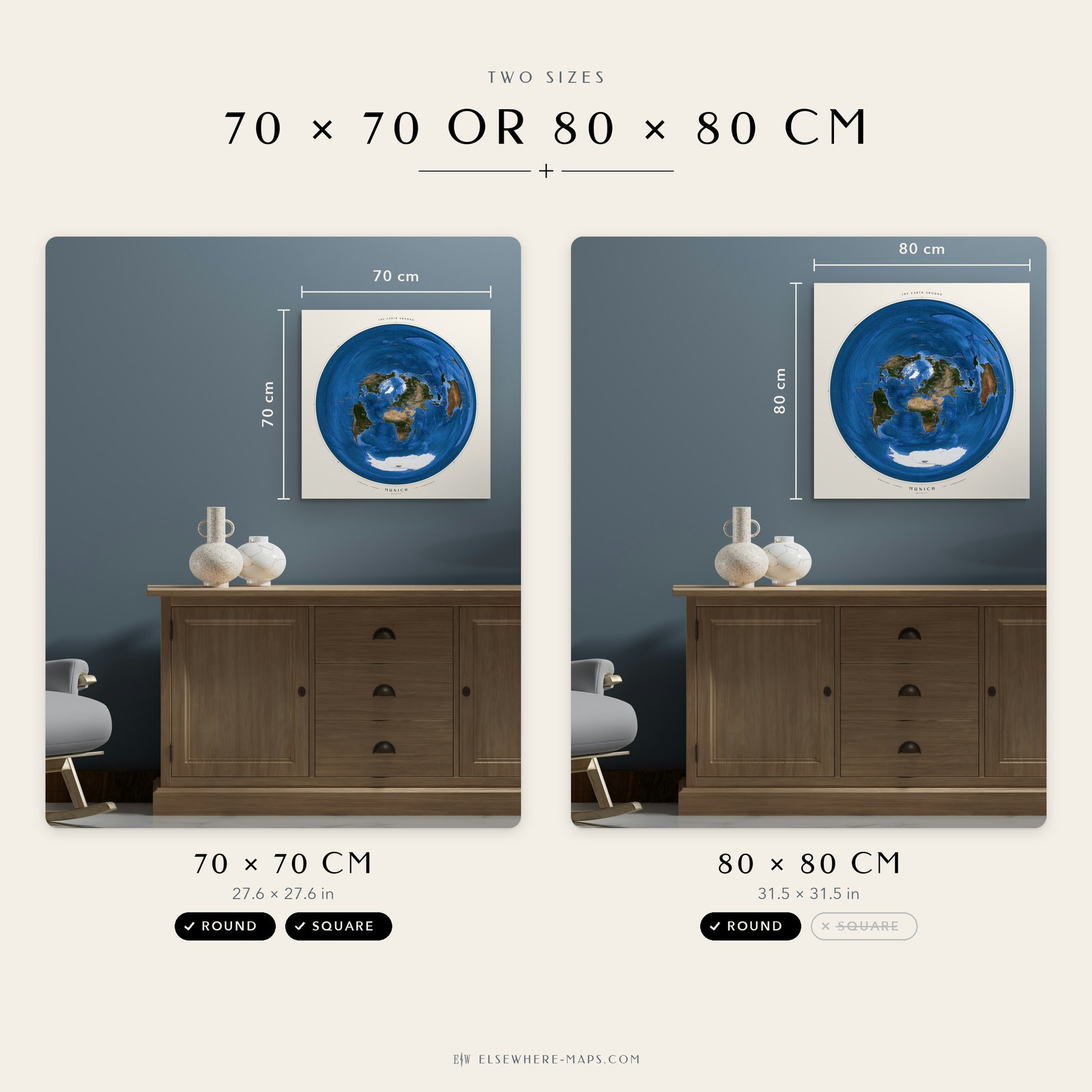
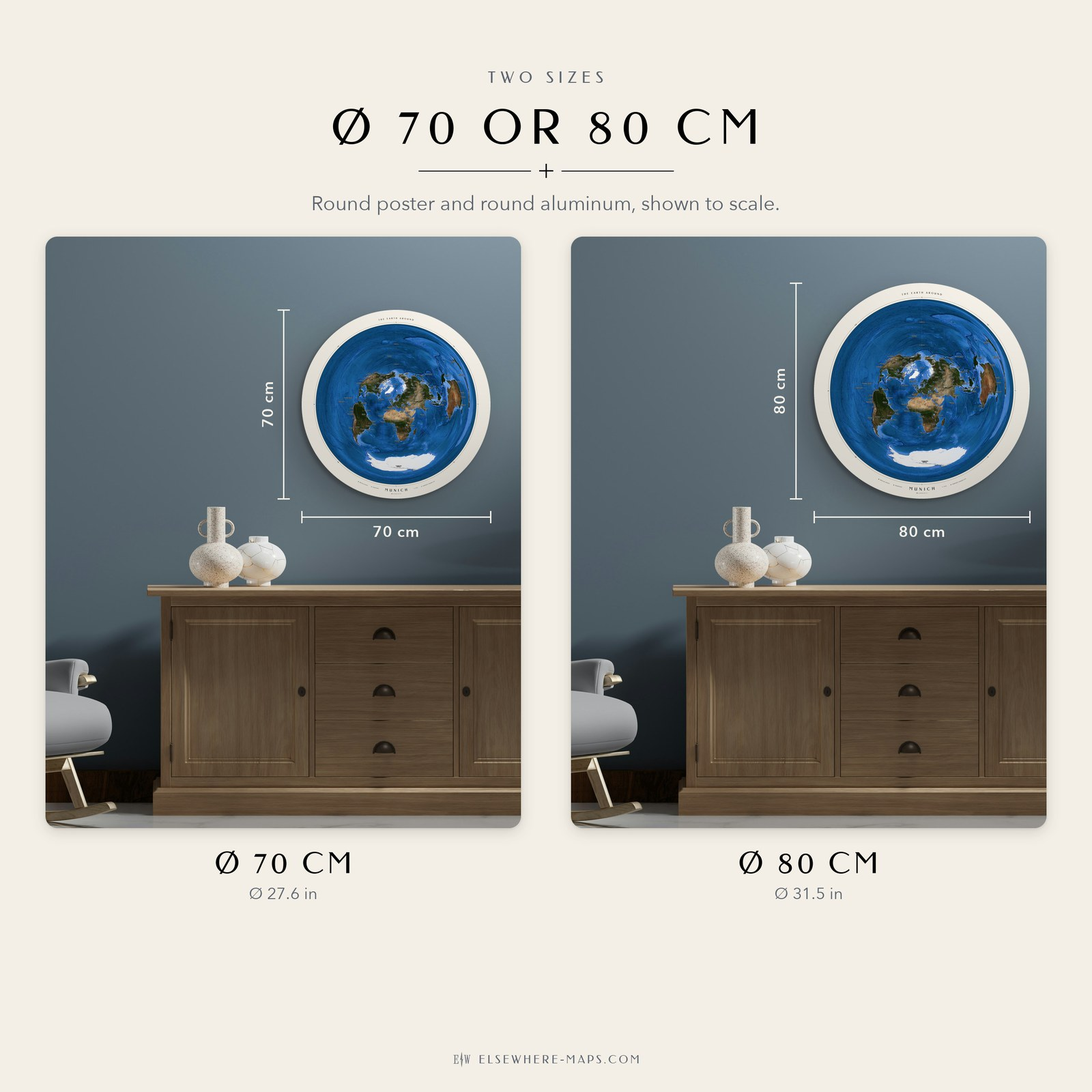
Add files via upload

diff --git a/i18n.js b/i18n.js
@@ -11,9 +11,6 @@ window.UI_STRINGS = {
     earth_lead: "The whole world, drawn around one single point: yours.",
     earth_p1: "The map uses the azimuthal equidistant projection. Every straight line from the center is the shortest route around the globe, and every distance from the center is true. Rings mark 1,000 to 15,000 kilometers or miles.",
     earth_p2: "You choose the center (any city or any point on Earth), the title, one of 14 languages, kilometers or miles, extra cities and up to 8 special places, such as where you met or were born.",
-    earth_f1: "Round poster or round aluminum, 70 or 80 cm (28″ or 32″ in the US)",
-    earth_f2: "Square poster, unframed or in a black wooden frame, 70 × 70 cm",
-    earth_f4: "Also as a digital download, with a gift card to print right away",
     dig_kicker: "Digital download", dig_h: "A last-minute gift",
     dig_lead: "Your map as print-ready files, with a gift card you can print today.",
     dig_p1: "Right after your order on Etsy you can download a printable gift card. Write your names on it and give it away. Your map follows within a few days as a download link, as soon as you have approved the preview.",
@@ -21,8 +18,27 @@ window.UI_STRINGS = {
     dig_alt: "Printable gift card for The Earth Around You with a round world map and lines for the names",
     g13: "What you get", g13_alt: "Contents of the digital download: map files at 80 and 70 cm with 300 dpi, print PDFs with cut line, screen version and print guide",
     g14: "Give it today", g14_alt: "Printable gift card and the four steps from order to download",
-    earth_f3: "Designed individually for you, with a preview before printing",
     shop_etsy: "Shop on Etsy",
+    ver_kicker: "Round, square or digital",
+    ver_h: "Pick your map",
+    ver_round: "Round",
+    ver_round_sub: "70 or 80 cm (28″ or 32″ in the US)",
+    ver_poster: "Poster",
+    ver_alu: "Aluminum",
+    ver_hang: "Ready to hang",
+    ver_frame: "With or without a black wooden frame",
+    ship_eu: "Ships within the EU",
+    ship_us: "Ships within the US",
+    ship_world: "Ships worldwide",
+    ver_digital_note: "Print-ready files",
+    ver_digital_where: "Print it wherever you like",
+    ver_square: "Square",
+    ver_square_sub: "70 × 70 cm",
+    ver_digital: "Digital",
+    ver_digital_sub: "70 × 70 or 80 × 80 cm (28″ or 32″ in the US)",
+    ver_digital_item: "Digital download",
+    ver_note: "Every map is designed individually for you, with a preview before printing. The links take you to the shop on Etsy.",
+    ver_sr: "View on Etsy",
     gallery_earth: "Pictures of The Earth Around You",
     film_h: "The map in motion", film_aria: "Film: the map moves around its center, from Berlin to New York and Sydney",
     gallery_h: "A closer look",
@@ -35,7 +51,7 @@ window.UI_STRINGS = {
     g9: "Asia and the Pacific", g9_alt: "Close-up of the azimuthal equidistant map: Asia and the Pacific with city names and true distances in km", g10: "Title and legend", g10_alt: "Close-up of the round world map poster: title, legend and distance scale", g11: "14 languages, km or miles", g11_alt: "The personalized world map in 14 languages, with distances in kilometers or miles",
     g12: "The title on the frame", g12_alt: "Close-up of the round world map poster: the title The Earth Around on the frame, with the north mark",
     g5: "How your map works", g5_alt: "How the azimuthal equidistant projection works: the globe unfolded into a round map with true distances and directions, compared with the signpost in Bluff, New Zealand",
-    g6: "Two sizes", g6_alt: "World map poster sizes 70 × 70 cm and 80 × 80 cm shown to scale in the same room",
+    g6: "Two sizes", g6_alt: "Round world map in 70 cm and 80 cm diameter, shown to scale in the same room",
     g7: "Your benefits", g7_alt: "Benefits of the personalized world map print: 5-star shop, premium quality, fully personalized, one of a kind, free shipping",
     car_prev: "Previous picture", car_next: "Next picture", car_dot: "Picture",
     steps_h: "How personalization works",
@@ -88,9 +104,6 @@ window.UI_STRINGS = {
     earth_lead: "Die ganze Welt, gezeichnet um einen einzigen Punkt: deinen.",
     earth_p1: "Die Karte nutzt die mittabstandstreue Azimutalprojektion. Jede gerade Linie von der Mitte ist der kürzeste Weg um den Globus, und jede Entfernung von der Mitte stimmt. Ringe markieren 1.000 bis 15.000 Kilometer oder Meilen.",
     earth_p2: "Du wählst die Mitte (jede Stadt oder jeden Punkt der Erde), den Titel, eine von 14 Sprachen, Kilometer oder Meilen, weitere Städte und bis zu 8 besondere Orte, etwa wo ihr euch kennengelernt habt oder wo du geboren bist.",
-    earth_f1: "Rundes Poster oder rundes Aluminium, 70 oder 80 cm (in den USA 28″ oder 32″)",
-    earth_f2: "Quadratisches Poster, ohne Rahmen oder im schwarzen Holzrahmen, 70 × 70 cm",
-    earth_f4: "Auch als digitaler Download, mit einer Geschenkkarte zum sofortigen Ausdrucken",
     dig_kicker: "Digitaler Download", dig_h: "Ein Last-Minute-Geschenk",
     dig_lead: "Deine Karte als druckfertige Dateien, mit einer Geschenkkarte, die du heute noch druckst.",
     dig_p1: "Direkt nach der Bestellung auf Etsy kannst du eine Geschenkkarte zum Ausdrucken herunterladen. Namen darauf schreiben und verschenken. Die Karte folgt in wenigen Tagen als Download-Link, sobald du die Vorschau freigegeben hast.",
@@ -98,8 +111,27 @@ window.UI_STRINGS = {
     dig_alt: "Geschenkkarte zum Ausdrucken für The Earth Around You mit runder Weltkarte und Linien für die Namen",
     g13: "Das bekommst du", g13_alt: "Inhalt des digitalen Downloads: Kartendateien in 80 und 70 cm mit 300 dpi, Druck-PDFs mit Schnittlinie, Bildschirmfassung und Druckanleitung",
     g14: "Heute verschenken", g14_alt: "Geschenkkarte zum Ausdrucken und die vier Schritte von der Bestellung bis zum Download",
-    earth_f3: "Individuell für dich gestaltet, mit Vorschau vor dem Druck",
     shop_etsy: "Auf Etsy ansehen",
+    ver_kicker: "Rund, quadratisch oder digital",
+    ver_h: "Wähle deine Karte",
+    ver_round: "Rund",
+    ver_round_sub: "70 oder 80 cm (in den USA 28″ oder 32″)",
+    ver_poster: "Poster",
+    ver_alu: "Aluminium",
+    ver_hang: "Fertig zum Aufhängen",
+    ver_frame: "Mit oder ohne schwarzen Holzrahmen",
+    ship_eu: "Versand innerhalb der EU",
+    ship_us: "Versand innerhalb der USA",
+    ship_world: "Weltweiter Versand",
+    ver_digital_note: "Druckfertige Dateien",
+    ver_digital_where: "Druck sie, wo du möchtest",
+    ver_square: "Quadratisch",
+    ver_square_sub: "70 × 70 cm",
+    ver_digital: "Digital",
+    ver_digital_sub: "70 × 70 oder 80 × 80 cm (in den USA 28″ oder 32″)",
+    ver_digital_item: "Digitaler Download",
+    ver_note: "Jede Karte wird individuell für dich gestaltet, mit Vorschau vor dem Druck. Die Links führen zum Shop auf Etsy.",
+    ver_sr: "Auf Etsy ansehen",
     gallery_earth: "Bilder von The Earth Around You",
     film_h: "Die Karte in Bewegung", film_aria: "Film: die Karte dreht sich um ihren Mittelpunkt, von Berlin nach New York und Sydney",
     gallery_h: "Im Detail",
@@ -112,7 +144,7 @@ window.UI_STRINGS = {
     g9: "Asien und Pazifik", g9_alt: "Ausschnitt der azimutalen abstandstreuen Karte: Asien und Pazifik mit Städtenamen und echten Entfernungen in km", g10: "Titel und Legende", g10_alt: "Ausschnitt des runden Weltkarten-Posters: Titel, Legende und Entfernungsmaßstab", g11: "14 Sprachen, km oder Meilen", g11_alt: "Die personalisierte Weltkarte in 14 Sprachen, mit Entfernungen in Kilometern oder Meilen",
     g12: "Der Titel auf dem Rahmen", g12_alt: "Ausschnitt des runden Weltkarten-Posters: der Titel The Earth Around auf dem Rahmen, mit der Nordmarke",
     g5: "So funktioniert deine Karte", g5_alt: "So funktioniert die azimutale abstandstreue Projektion: der Globus aufgeklappt zur runden Karte mit echten Entfernungen und Richtungen, verglichen mit dem Wegweiser in Bluff, Neuseeland",
-    g6: "Zwei Größen", g6_alt: "Weltkarten-Poster in 70 × 70 cm und 80 × 80 cm maßstäblich im selben Raum",
+    g6: "Zwei Größen", g6_alt: "Runde Weltkarte mit 70 cm und 80 cm Durchmesser, maßstäblich im selben Raum",
     g7: "Deine Vorteile", g7_alt: "Vorteile der personalisierten Weltkarte: 5-Sterne-Shop, beste Qualität, ganz persönlich, ein Einzelstück, kostenloser Versand",
     car_prev: "Vorheriges Bild", car_next: "Nächstes Bild", car_dot: "Bild",
     steps_h: "So funktioniert die Personalisierung",
@@ -165,9 +197,6 @@ window.UI_STRINGS = {
     earth_lead: "Le monde entier, dessiné autour d’un seul point : le vôtre.",
     earth_p1: "La carte utilise la projection azimutale équidistante. Chaque ligne droite partant du centre est le plus court chemin autour du globe, et chaque distance depuis le centre est exacte. Des cercles marquent de 1 000 à 15 000 kilomètres ou miles.",
     earth_p2: "Vous choisissez le centre (n’importe quelle ville ou n’importe quel point du globe), le titre, l’une des 14 langues, kilomètres ou miles, des villes supplémentaires et jusqu’à 8 lieux particuliers, comme l’endroit de votre rencontre ou de votre naissance.",
-    earth_f1: "Poster rond ou aluminium rond, 70 ou 80 cm (28″ ou 32″ aux États-Unis)",
-    earth_f2: "Poster carré, sans cadre ou dans un cadre en bois noir, 70 × 70 cm",
-    earth_f4: "Aussi en téléchargement numérique, avec une carte cadeau à imprimer tout de suite",
     dig_kicker: "Téléchargement numérique", dig_h: "Un cadeau de dernière minute",
     dig_lead: "Votre carte en fichiers prêts à imprimer, avec une carte cadeau à imprimer dès aujourd’hui.",
     dig_p1: "Juste après votre commande sur Etsy, vous pouvez télécharger une carte cadeau à imprimer. Écrivez vos noms dessus et offrez-la. Votre carte suit en quelques jours sous forme de lien de téléchargement, dès que vous avez approuvé l’aperçu.",
@@ -175,8 +204,27 @@ window.UI_STRINGS = {
     dig_alt: "Carte cadeau à imprimer pour The Earth Around You avec une carte du monde ronde et des lignes pour les noms",
     g13: "Ce que vous recevez", g13_alt: "Contenu du téléchargement : fichiers de la carte en 80 et 70 cm à 300 dpi, PDF d’impression avec ligne de découpe, version écran et guide d’impression",
     g14: "À offrir aujourd’hui", g14_alt: "Carte cadeau à imprimer et les quatre étapes de la commande au téléchargement",
-    earth_f3: "Conçue individuellement pour vous, avec un aperçu avant l’impression",
     shop_etsy: "Voir sur Etsy",
+    ver_kicker: "Ronde, carrée ou numérique",
+    ver_h: "Choisissez votre carte",
+    ver_round: "Ronde",
+    ver_round_sub: "70 ou 80 cm (28″ ou 32″ aux États-Unis)",
+    ver_poster: "Poster",
+    ver_alu: "Aluminium",
+    ver_hang: "Prêt à accrocher",
+    ver_frame: "Avec ou sans cadre en bois noir",
+    ship_eu: "Livraison dans l’UE",
+    ship_us: "Livraison aux États-Unis",
+    ship_world: "Livraison dans le monde entier",
+    ver_digital_note: "Fichiers prêts à imprimer",
+    ver_digital_where: "Imprimez-la où vous voulez",
+    ver_square: "Carrée",
+    ver_square_sub: "70 × 70 cm",
+    ver_digital: "Numérique",
+    ver_digital_sub: "70 × 70 ou 80 × 80 cm (28″ ou 32″ aux États-Unis)",
+    ver_digital_item: "Téléchargement numérique",
+    ver_note: "Chaque carte est conçue individuellement pour vous, avec un aperçu avant l’impression. Les liens mènent à la boutique sur Etsy.",
+    ver_sr: "Voir sur Etsy",
     gallery_earth: "Images de The Earth Around You",
     film_h: "La carte en mouvement", film_aria: "Film : la carte se transforme autour de son centre, de Berlin à New York et Sydney",
     gallery_h: "En détail",
@@ -189,7 +237,7 @@ window.UI_STRINGS = {
     g9: "Asie et Pacifique", g9_alt: "Détail de la carte azimutale équidistante : Asie et Pacifique avec noms de villes et vraies distances en km", g10: "Titre et légende", g10_alt: "Détail du poster rond de carte du monde : titre, légende et échelle des distances", g11: "14 langues, km ou miles", g11_alt: "La carte du monde personnalisée en 14 langues, avec distances en kilomètres ou en miles",
     g12: "Le titre sur le cadre", g12_alt: "Détail du poster rond de carte du monde : le titre The Earth Around sur le cadre, avec le repère du nord",
     g5: "Comment fonctionne votre carte", g5_alt: "Comment fonctionne la projection azimutale équidistante : le globe déplié en carte ronde avec vraies distances et directions, comparé au panneau de Bluff, en Nouvelle-Zélande",
-    g6: "Deux tailles", g6_alt: "Poster carte du monde en 70 × 70 cm et 80 × 80 cm à l’échelle dans la même pièce",
+    g6: "Deux tailles", g6_alt: "Carte du monde ronde de 70 cm et 80 cm de diamètre, à l’échelle dans la même pièce",
     g7: "Vos avantages", g7_alt: "Avantages de la carte du monde personnalisée : boutique 5 étoiles, qualité supérieure, entièrement personnalisée, pièce unique, livraison gratuite",
     car_prev: "Image précédente", car_next: "Image suivante", car_dot: "Image",
     steps_h: "Comment fonctionne la personnalisation",
@@ -242,9 +290,6 @@ window.UI_STRINGS = {
     earth_lead: "Todo el mundo, dibujado alrededor de un solo punto: el tuyo.",
     earth_p1: "El mapa usa la proyección azimutal equidistante. Cada línea recta desde el centro es la ruta más corta alrededor del globo, y cada distancia desde el centro es exacta. Los anillos marcan de 1.000 a 15.000 kilómetros o millas.",
     earth_p2: "Tú eliges el centro (cualquier ciudad o cualquier punto de la Tierra), el título, uno de 14 idiomas, kilómetros o millas, más ciudades y hasta 8 lugares especiales, como donde os conocisteis o donde naciste.",
-    earth_f1: "Póster redondo o aluminio redondo, 70 u 80 cm (28″ o 32″ en EE. UU.)",
-    earth_f2: "Póster cuadrado, sin marco o con marco de madera negro, 70 × 70 cm",
-    earth_f4: "También como descarga digital, con una tarjeta regalo para imprimir al momento",
     dig_kicker: "Descarga digital", dig_h: "Un regalo de último minuto",
     dig_lead: "Tu mapa en archivos listos para imprimir, con una tarjeta regalo que puedes imprimir hoy.",
     dig_p1: "Justo después de tu pedido en Etsy puedes descargar una tarjeta regalo para imprimir. Escribe vuestros nombres y regálala. Tu mapa llega en pocos días como enlace de descarga, en cuanto apruebes la vista previa.",
@@ -252,8 +297,27 @@ window.UI_STRINGS = {
     dig_alt: "Tarjeta regalo para imprimir de The Earth Around You con un mapa del mundo redondo y líneas para los nombres",
     g13: "Lo que recibes", g13_alt: "Contenido de la descarga digital: archivos del mapa en 80 y 70 cm a 300 dpi, PDF de impresión con línea de corte, versión para pantalla y guía de impresión",
     g14: "Regálalo hoy", g14_alt: "Tarjeta regalo para imprimir y los cuatro pasos del pedido a la descarga",
-    earth_f3: "Diseñado individualmente para ti, con vista previa antes de imprimir",
     shop_etsy: "Ver en Etsy",
+    ver_kicker: "Redondo, cuadrado o digital",
+    ver_h: "Elige tu mapa",
+    ver_round: "Redondo",
+    ver_round_sub: "70 u 80 cm (28″ o 32″ en EE. UU.)",
+    ver_poster: "Póster",
+    ver_alu: "Aluminio",
+    ver_hang: "Listo para colgar",
+    ver_frame: "Con o sin marco de madera negro",
+    ship_eu: "Envío dentro de la UE",
+    ship_us: "Envío dentro de EE. UU.",
+    ship_world: "Envío a todo el mundo",
+    ver_digital_note: "Archivos listos para imprimir",
+    ver_digital_where: "Imprímelo donde quieras",
+    ver_square: "Cuadrado",
+    ver_square_sub: "70 × 70 cm",
+    ver_digital: "Digital",
+    ver_digital_sub: "70 × 70 u 80 × 80 cm (28″ o 32″ en EE. UU.)",
+    ver_digital_item: "Descarga digital",
+    ver_note: "Cada mapa se diseña individualmente para ti, con vista previa antes de imprimir. Los enlaces llevan a la tienda en Etsy.",
+    ver_sr: "Ver en Etsy",
     gallery_earth: "Imágenes de The Earth Around You",
     film_h: "El mapa en movimiento", film_aria: "Vídeo: el mapa gira en torno a su centro, de Berlín a Nueva York y Sídney",
     gallery_h: "En detalle",
@@ -266,7 +330,7 @@ window.UI_STRINGS = {
     g9: "Asia y el Pacífico", g9_alt: "Detalle del mapa azimutal equidistante: Asia y el Pacífico con nombres de ciudades y distancias reales en km", g10: "Título y leyenda", g10_alt: "Detalle del póster redondo del mapa del mundo: título, leyenda y escala de distancias", g11: "14 idiomas, km o millas", g11_alt: "El mapa del mundo personalizado en 14 idiomas, con distancias en kilómetros o millas",
     g12: "El título en el marco", g12_alt: "Detalle del póster redondo del mapa del mundo: el título The Earth Around en el marco, con la marca del norte",
     g5: "Cómo funciona tu mapa", g5_alt: "Cómo funciona la proyección azimutal equidistante: el globo desplegado en un mapa redondo con distancias y direcciones reales, comparado con el poste indicador de Bluff, Nueva Zelanda",
-    g6: "Dos tamaños", g6_alt: "Póster del mapa del mundo en 70 × 70 cm y 80 × 80 cm a escala en la misma habitación",
+    g6: "Dos tamaños", g6_alt: "Mapa del mundo redondo de 70 cm y 80 cm de diámetro, a escala en la misma habitación",
     g7: "Tus ventajas", g7_alt: "Ventajas del mapa del mundo personalizado: tienda de 5 estrellas, la mejor calidad, totalmente personalizado, pieza única, envío gratis",
     car_prev: "Imagen anterior", car_next: "Imagen siguiente", car_dot: "Imagen",
     steps_h: "Cómo funciona la personalización",

diff --git a/index.html b/index.html
@@ -78,7 +78,7 @@
      "name": "The Earth Around You",
      "alternateName": "Personalized azimuthal equidistant world map",
      "artform": "Poster",
-     "artMedium": "Premium paper, aluminum composite (Dibond)",
+     "artMedium": "Matte paper, aluminum composite (Dibond), framed poster or digital file",
      "genre": "Cartography",
      "creator": {
       "@id": "https://elsewhere-maps.com/#org"
@@ -89,8 +89,65 @@
       "https://elsewhere-maps.com/img/earth_poster.jpg",
       "https://elsewhere-maps.com/img/earth_closeup.jpg"
      ],
-     "description": "Personalized world map in the azimuthal equidistant projection, centered on your place. Shows true distances and true directions to every city on Earth. Round poster, round aluminum print or square poster, 70 or 80 cm.",
-     "keywords": "azimuthal equidistant projection, azimuthal map, equidistant map, personalized world map, custom world map poster, round world map, distance map, map centered on my city, world map print, aluminum world map, gift"
+     "description": "Personalized world map in the azimuthal equidistant projection, centered on your place. Shows true distances and true directions to every city on Earth. Round poster, round aluminum print, square poster (unframed or framed) or digital download.",
+     "keywords": "azimuthal equidistant projection, azimuthal map, equidistant map, personalized world map, custom world map poster, round world map, distance map, map centered on my city, world map print, aluminum world map, gift",
+     "workExample": [
+      {
+       "@type": "VisualArtwork",
+       "name": "The Earth Around You, Round Poster",
+       "artform": "Poster",
+       "artMedium": "Matte paper",
+       "description": "Round poster, 70 or 80 cm in diameter. Ships within the EU.",
+       "url": "https://elsewheremaps.etsy.com/listing/4611142491/the-earth-around-you-round-poster-of",
+       "creator": {
+        "@id": "https://elsewhere-maps.com/#org"
+       }
+      },
+      {
+       "@type": "VisualArtwork",
+       "name": "The Earth Around You, Round Aluminum",
+       "artform": "Print",
+       "artMedium": "Aluminum composite (Dibond)",
+       "description": "Round aluminum print, ready to hang, 70 or 80 cm in diameter. Ships within the EU.",
+       "url": "https://elsewheremaps.etsy.com/listing/4611145681/the-earth-around-you-round-aluminum-wall",
+       "creator": {
+        "@id": "https://elsewhere-maps.com/#org"
+       }
+      },
+      {
+       "@type": "VisualArtwork",
+       "name": "The Earth Around You, Round Aluminum (US)",
+       "artform": "Print",
+       "artMedium": "Aluminum composite",
+       "description": "Round aluminum print, ready to hang, 28 or 32 inches in diameter. Ships within the US.",
+       "url": "https://elsewheremaps.etsy.com/listing/4611167706/the-earth-around-you-round-metal-wall",
+       "creator": {
+        "@id": "https://elsewhere-maps.com/#org"
+       }
+      },
+      {
+       "@type": "VisualArtwork",
+       "name": "The Earth Around You, Square Poster",
+       "artform": "Poster",
+       "artMedium": "Matte paper, optional black wooden frame",
+       "description": "Square poster, 70 × 70 cm, unframed or in a black wooden frame. Ships worldwide.",
+       "url": "https://elsewheremaps.etsy.com/listing/4611210004/the-earth-around-you-square-poster-of",
+       "creator": {
+        "@id": "https://elsewhere-maps.com/#org"
+       }
+      },
+      {
+       "@type": "VisualArtwork",
+       "name": "The Earth Around You, Digital Download",
+       "artform": "Digital file",
+       "artMedium": "Print-ready files (JPG, PDF)",
+       "description": "Print-ready files of your personalized map, with a printable gift card.",
+       "url": "https://elsewheremaps.etsy.com/listing/4612820786/the-earth-around-you-personalized-world",
+       "creator": {
+        "@id": "https://elsewhere-maps.com/#org"
+       }
+      }
+     ]
     }
    },
    {
@@ -118,10 +175,10 @@
  }
 ]
 </script>
-<link rel="icon" href="favicon.svg?v=202611071400" type="image/svg+xml">
-<link rel="stylesheet" href="style.css?v=202611071400">
-<script src="i18n.js?v=202611071400" defer></script>
-<script src="app.js?v=202611071400" defer></script>
+<link rel="icon" href="favicon.svg?v=202611121800" type="image/svg+xml">
+<link rel="stylesheet" href="style.css?v=202611121800">
+<script src="i18n.js?v=202611121800" defer></script>
+<script src="app.js?v=202611121800" defer></script>
 </head>
 <body data-product="earth">
 
@@ -169,12 +226,6 @@
         <p class="lead" data-i18n="earth_lead">The whole world, drawn around one single point: yours.</p>
         <p data-i18n="earth_p1">The map uses the azimuthal equidistant projection.</p>
         <p data-i18n="earth_p2">You choose the center.</p>
-        <ul class="facts">
-          <li data-i18n="earth_f1">Round poster or round aluminum</li>
-          <li data-i18n="earth_f2">Square poster</li>
-          <li data-i18n="earth_f3">Designed individually for you</li>
-          <li data-i18n="earth_f4">Also as a digital download</li>
-        </ul>
         <a class="btn etsy" data-etsy="earthAroundYou" href="https://elsewheremaps.etsy.com" target="_blank" rel="noopener" data-i18n="shop_etsy">Shop on Etsy</a>
       </div>
     </section>
@@ -200,12 +251,40 @@
         <figure><img src="img/earth_files.jpg" width="1600" height="1600" alt="Contents of the digital download" data-i18n-alt="g13_alt" loading="lazy"><figcaption data-i18n="g13"></figcaption></figure>
         <figure><img src="img/earth_gift.jpg" width="1600" height="1600" alt="Printable gift card and the four steps from order to download" data-i18n-alt="g14_alt" loading="lazy"><figcaption data-i18n="g14"></figcaption></figure>
         <figure><img src="img/earth_variants.jpg" width="1600" height="1600" alt="Four versions of the personalized world map: round poster, round aluminum print, square poster and framed square poster, with the regions each ships to" data-i18n-alt="g8_alt" loading="lazy"><figcaption data-i18n="g8"></figcaption></figure>
-        <figure><img src="img/earth_sizes.jpg" width="1600" height="1600" alt="World map poster sizes 70 × 70 cm and 80 × 80 cm shown to scale in the same room" data-i18n-alt="g6_alt" loading="lazy"><figcaption data-i18n="g6"></figcaption></figure>
+        <figure><img src="img/earth_sizes.jpg" width="1600" height="1600" alt="Round world map in 70 cm and 80 cm diameter, shown to scale in the same room" data-i18n-alt="g6_alt" loading="lazy"><figcaption data-i18n="g6"></figcaption></figure>
         <figure><img src="img/earth_benefits.jpg" width="1600" height="1600" alt="Benefits of the personalized world map print: 5-star shop, premium quality, fully personalized, one of a kind, free shipping" data-i18n-alt="g7_alt" loading="lazy"><figcaption data-i18n="g7"></figcaption></figure>
       </div>
       <button type="button" class="car-nav prev" aria-label="Previous picture" data-i18n-aria="car_prev">&#8249;</button>
       <button type="button" class="car-nav next" aria-label="Next picture" data-i18n-aria="car_next">&#8250;</button>
       <div class="dots"></div>
+    </section>
+
+    <section class="versions" aria-labelledby="ver-h">
+      <div class="kicker" data-i18n="ver_kicker">Round, square or digital</div>
+      <h2 id="ver-h" data-i18n="ver_h">Pick your map</h2>
+      <div class="v-grid">
+      <div class="v-group">
+        <div class="v-head"><svg class="v-icon" viewBox="0 0 88 88" aria-hidden="true"><circle cx="44" cy="44" r="38"/><circle cx="44" cy="44" r="29"/><circle cx="44" cy="44" r="19" class="thin"/><circle cx="44" cy="44" r="2.5" class="dot"/></svg><div><h3 data-i18n="ver_round"></h3><p data-i18n="ver_round_sub"></p></div></div>
+        <ul>
+          <li><a data-etsy="earthRoundPoster" href="https://elsewheremaps.etsy.com" target="_blank" rel="noopener"><span class="v-text"><span class="v-name"><span data-i18n="ver_poster"></span><img class="v-flag" src="img/flag_eu.svg" alt="" width="16" height="16"></span><span class="v-note" data-i18n="ship_eu"></span></span><span class="visually-hidden" data-i18n="ver_sr"></span><svg class="v-arrow" width="20" height="20" viewBox="0 0 20 20" aria-hidden="true"><path d="M4 10h12M11 5l5 5-5 5"/></svg></a></li>
+          <li><a data-etsy="earthAluEU" href="https://elsewheremaps.etsy.com" target="_blank" rel="noopener"><span class="v-text"><span class="v-name"><span data-i18n="ver_alu"></span><img class="v-flag" src="img/flag_eu.svg" alt="" width="16" height="16"></span><span class="v-tags"><span class="v-tag"><svg viewBox="0 0 12 12" aria-hidden="true"><path d="M2.5 6.3l2.3 2.3 4.7-5"/></svg><span data-i18n="ver_hang"></span></span></span><span class="v-note" data-i18n="ship_eu"></span></span><span class="visually-hidden" data-i18n="ver_sr"></span><svg class="v-arrow" width="20" height="20" viewBox="0 0 20 20" aria-hidden="true"><path d="M4 10h12M11 5l5 5-5 5"/></svg></a></li>
+          <li><a data-etsy="earthAluUS" href="https://elsewheremaps.etsy.com" target="_blank" rel="noopener"><span class="v-text"><span class="v-name"><span data-i18n="ver_alu"></span><img class="v-flag" src="img/flag_us.svg" alt="" width="16" height="16"></span><span class="v-tags"><span class="v-tag"><svg viewBox="0 0 12 12" aria-hidden="true"><path d="M2.5 6.3l2.3 2.3 4.7-5"/></svg><span data-i18n="ver_hang"></span></span></span><span class="v-note" data-i18n="ship_us"></span></span><span class="visually-hidden" data-i18n="ver_sr"></span><svg class="v-arrow" width="20" height="20" viewBox="0 0 20 20" aria-hidden="true"><path d="M4 10h12M11 5l5 5-5 5"/></svg></a></li>
+        </ul>
+      </div>
+      <div class="v-group">
+        <div class="v-head"><svg class="v-icon" viewBox="0 0 88 88" aria-hidden="true"><rect x="8" y="8" width="72" height="72" class="frame"/><rect x="17" y="17" width="54" height="54" class="hair"/><circle cx="44" cy="44" r="21"/><circle cx="44" cy="44" r="2.5" class="dot"/></svg><div><h3 data-i18n="ver_square"></h3><p data-i18n="ver_square_sub"></p></div></div>
+        <ul>
+          <li><a data-etsy="earthSquare" href="https://elsewheremaps.etsy.com" target="_blank" rel="noopener"><span class="v-text"><span class="v-name"><span data-i18n="ver_poster"></span><img class="v-flag" src="img/flag_world.svg" alt="" width="16" height="16"></span><span class="v-tags"><span class="v-tag"><svg viewBox="0 0 12 12" aria-hidden="true"><path d="M2.5 6.3l2.3 2.3 4.7-5"/></svg><span data-i18n="ver_frame"></span></span></span><span class="v-note" data-i18n="ship_world"></span></span><span class="visually-hidden" data-i18n="ver_sr"></span><svg class="v-arrow" width="20" height="20" viewBox="0 0 20 20" aria-hidden="true"><path d="M4 10h12M11 5l5 5-5 5"/></svg></a></li>
+        </ul>
+      </div>
+      <div class="v-group">
+        <div class="v-head"><svg class="v-icon" viewBox="0 0 88 88" aria-hidden="true"><path d="M14 8h34l14 14v58H14z"/><path d="M48 8v14h14"/><circle cx="38" cy="42" r="14"/><circle cx="38" cy="42" r="2.5" class="dot"/><circle cx="64" cy="66" r="17" class="badge"/><path d="M64 57v15M58 66l6 6 6-6"/></svg><div><h3 data-i18n="ver_digital"></h3><p data-i18n="ver_digital_sub"></p></div></div>
+        <ul>
+          <li><a data-etsy="earthDigital" href="https://elsewheremaps.etsy.com" target="_blank" rel="noopener"><span class="v-text"><span class="v-name" data-i18n="ver_digital_item"></span><span class="v-tags"><span class="v-tag"><svg viewBox="0 0 12 12" aria-hidden="true"><path d="M2.5 6.3l2.3 2.3 4.7-5"/></svg><span data-i18n="ver_digital_note"></span></span></span><span class="v-note" data-i18n="ver_digital_where"></span></span><span class="visually-hidden" data-i18n="ver_sr"></span><svg class="v-arrow" width="20" height="20" viewBox="0 0 20 20" aria-hidden="true"><path d="M4 10h12M11 5l5 5-5 5"/></svg></a></li>
+        </ul>
+      </div>
+      </div>
+      <p class="v-foot" data-i18n="ver_note"></p>
     </section>
 
     <section class="product digital reverse" aria-labelledby="dig-h">

diff --git a/style.css b/style.css
@@ -163,6 +163,45 @@ dialog#about::backdrop { background: rgba(8,20,35,.55); }
 .about-photo .initials { font-size: 34px; }
 .close { position: absolute; top: 10px; right: 10px; width: 40px; height: 40px; border: 0; border-radius: 50%; background: var(--soft); color: var(--ink); font-size: 24px; line-height: 1; cursor: pointer; }
 
+/* Abschnitt "Pick your map": eine Zeile je Etsy-Anzeige, nach Form gruppiert, ohne Preise */
+.versions { text-align: center; padding: 8px 0 56px; }
+.versions h2 { margin: 6px 0 28px; }
+.v-grid { display: grid; grid-template-columns: repeat(3, minmax(0, 1fr)); gap: 24px; text-align: left; }
+.v-group { background: var(--card); border: 1px solid var(--line); border-radius: 20px; padding: 28px 24px 12px; }
+/* Kopf und Liste als gemeinsame Zeilen aller Kaesten: die erste Linie steht ueberall auf gleicher Hoehe */
+@supports (grid-template-rows: subgrid) {
+  .v-grid { grid-template-rows: auto auto; }
+  .v-group { display: grid; grid-row: span 2; grid-template-rows: subgrid; row-gap: 0; align-content: start; }
+}
+.v-head { display: flex; align-items: center; gap: 16px; margin-bottom: 14px; }
+.v-head h3 { margin: 0; font-family: var(--head); text-transform: var(--head-case); letter-spacing: .1em; font-weight: var(--head-weight); font-size: 21px; }
+.v-head p { margin: 2px 0 0; color: var(--muted); font-size: 14px; }
+.v-icon { flex: 0 0 64px; width: 64px; height: 64px; fill: none; stroke: var(--ink); stroke-width: 2; stroke-linecap: round; stroke-linejoin: round; }
+.v-icon .thin { stroke-width: 1; stroke-dasharray: 2 4; }
+.v-icon .hair { stroke-width: 1; }
+.v-icon .frame { stroke-width: 6; stroke-linecap: butt; stroke-linejoin: miter; }
+.v-icon .dot { fill: var(--ink); stroke: none; }
+.v-icon .badge { fill: var(--card); }
+.v-group ul { list-style: none; margin: 0; padding: 0; border-top: 1px solid var(--line); }
+.v-group li { border-bottom: 1px solid var(--line); }
+.v-group li:last-child { border-bottom: 0; }
+.v-group a { display: flex; align-items: center; gap: 12px; min-height: 44px; padding: 14px 4px; color: var(--ink); text-decoration: none; }
+.v-text { flex: 1 1 auto; display: flex; flex-direction: column; gap: 2px; }
+.v-name { font-weight: 600; display: inline-flex; align-items: center; gap: 8px; }
+.v-note { font-size: 14px; color: var(--muted); }
+.v-flag { flex: 0 0 16px; width: 16px; height: 16px; border-radius: 50%; box-shadow: 0 0 0 1px var(--line); }
+.v-tags { display: flex; flex-wrap: wrap; gap: 6px; margin: 4px 0 2px; }
+.v-tag { display: inline-flex; align-items: center; gap: 5px; padding: 3px 9px 3px 5px; border-radius: 12px; background: var(--soft); color: var(--ink); font-size: 12.5px; line-height: 1.3; white-space: nowrap; }
+@media (max-width: 1180px) and (min-width: 901px) { .v-tag { white-space: normal; } }
+.v-tag svg { flex: 0 0 14px; width: 14px; height: 14px; padding: 2px; box-sizing: border-box; border-radius: 50%; background: var(--muted); fill: none; stroke: var(--card); stroke-width: 1.8; stroke-linecap: round; stroke-linejoin: round; }
+.v-arrow { flex: 0 0 20px; fill: none; stroke: currentColor; stroke-width: 2; stroke-linecap: round; stroke-linejoin: round; transition: transform .2s; }
+.v-group a:hover .v-name > span { text-decoration: underline; text-underline-offset: 4px; }
+.v-group a:hover .v-arrow { transform: translateX(3px); }
+.v-group a:focus-visible { outline: 2px solid var(--focus); outline-offset: 2px; border-radius: 6px; }
+.v-foot { margin: 22px auto 0; max-width: 640px; color: var(--muted); font-size: 15px; }
+@media (max-width: 900px) { .v-grid { grid-template-columns: 1fr; grid-template-rows: none; max-width: 560px; margin: 0 auto; } .v-group { grid-row: auto; grid-template-rows: auto auto; } }
+@media (prefers-reduced-motion: reduce) { .v-arrow { transition: none; } }
+
 [hidden] { display: none !important; }
 
 @media (max-width: 900px) {

diff --git a/app.js b/app.js
@@ -9,7 +9,13 @@
 const ETSY = {
   shop: "https://elsewheremaps.etsy.com",   // Share-&-Save-Link (Etsy erstattet einen Teil der Gebuehren)
   earthAroundYou: "",  // leer = Shop (bewusst: je nach Land passen andere Anzeigen - Poster EU, Alu USA ...)
-  earthDigital: "",    // Link zur Anzeige "Digital Download" eintragen, sobald sie online ist (leer = Shop)
+  earthDigital: "https://elsewheremaps.etsy.com/listing/4612820786/the-earth-around-you-personalized-world",    // Anzeige "Digital Download"
+  // Abschnitt "Pick your map" (eine Zeile je Anzeige, ohne Preise, da sie je Region schwanken; leer = Shop;
+  // Links ohne Sprachteil wie "/de-en/", dann zeigt Etsy jedem Besucher seine eigene Sprache und Waehrung)
+  earthRoundPoster: "https://elsewheremaps.etsy.com/listing/4611142491/the-earth-around-you-round-poster-of",  // Round Poster (EU, myposter)
+  earthAluEU: "https://elsewheremaps.etsy.com/listing/4611145681/the-earth-around-you-round-aluminum-wall",        // Round Aluminum (EU, myposter)
+  earthAluUS: "https://elsewheremaps.etsy.com/listing/4611167706/the-earth-around-you-round-metal-wall",        // Round Aluminum (USA, Square Signs)
+  earthSquare: "https://elsewheremaps.etsy.com/listing/4611210004/the-earth-around-you-square-poster-of",       // Square Poster (weltweit, Gelato)
   oneOcean: "",        // leer = Shop (bewusst: Shop-Link zählt für Share & Save genauso)
 };
 const PRODUCTS = ["earth", "ocean"];
